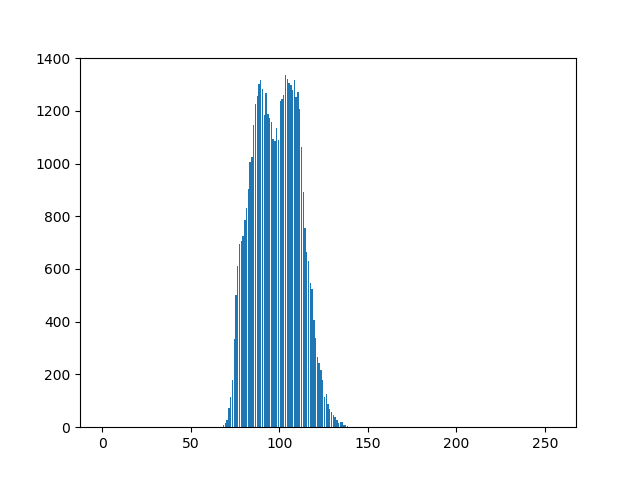
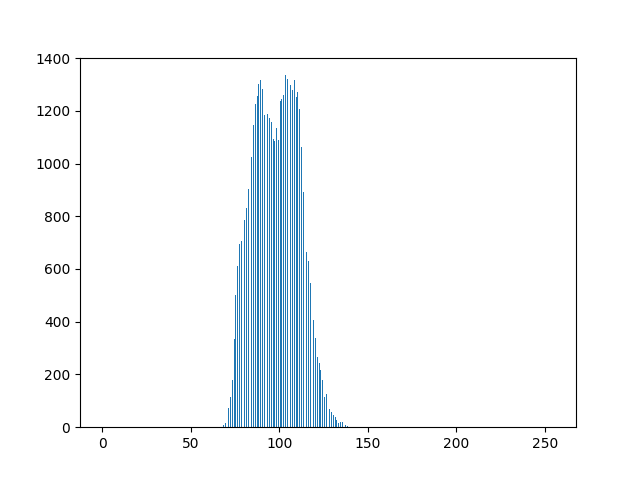
finished question 20

Changed region(s): [[0.375, 0.1875, 0.5312, 0.9062]]

diff --git a/Image_Processing_100_Questions/Question_11_20/Q15_sobel_filter.py b/Image_Processing_100_Questions/Question_11_20/Q15_sobel_filter.py
@@ -1,0 +1,54 @@
+import cv2
+import numpy as np
+
+
+def BGR2GRAY(img):
+    b = img[..., 0].copy()
+    g = img[..., 1].copy()
+    r = img[..., 2].copy()
+
+    gray = 0.2126 * r + 0.7152 * g + 0.0722 * b
+    gray = gray.astype(np.uint8)
+
+    return gray
+
+
+def sobel_filter(src, kernel_size=3):
+    if len(src.shape) == 3:
+        height, width, channels = src.shape
+    else:
+        height, width = src.shape
+
+    kernel_h = [[1, 0, -1], [2, 0, -2], [1, 0, -1]]
+    kernel_v = [[1, 2, 1], [0, 0, 0], [-1, -2, -1]]
+
+    pad = kernel_size // 2
+    src_pad = np.zeros((height + pad * 2, width + pad * 2), np.uint8)
+    src_pad[pad: pad + height, pad: pad + width] = src.copy()
+
+    out_v = np.zeros_like(src, np.float32)
+    out_h = np.zeros_like(src, np.float32)
+
+    for i in range(height):
+        for j in range(width):
+            out_v[i, j] = np.sum(kernel_v * src_pad[i: i + kernel_size, j: j + kernel_size])
+            out_h[i, j] = np.sum(kernel_h * src_pad[i: i + kernel_size, j: j + kernel_size])
+
+    out_v = np.clip(out_v, 0, 255).astype(np.uint8)
+    out_h = np.clip(out_h, 0, 255).astype(np.uint8)
+
+    return out_v, out_h
+
+
+src = cv2.imread("imori.png")
+
+gray = BGR2GRAY(src)
+
+out_v, out_h = sobel_filter(gray, 3)
+
+cv2.imshow("result vertical", out_v)
+cv2.imshow("result horizon", out_h)
+cv2.imwrite("answer15_vertical.jpg", out_v)
+cv2.imwrite("answer15_horizon.jpg", out_h)
+cv2.waitKey(0)
+cv2.destroyAllWindows()

diff --git a/Image_Processing_100_Questions/Question_11_20/Q16_prewitt_filter.py b/Image_Processing_100_Questions/Question_11_20/Q16_prewitt_filter.py
@@ -1,0 +1,53 @@
+import cv2
+import numpy as np
+
+
+def BGR2GRAY(img):
+    b = img[..., 0]
+    g = img[..., 1]
+    r = img[..., 2]
+
+    gray = 0.2126 * r + 0.7152 * g +0.0722 * b
+    gray = gray.astype(np.uint8)
+
+    return gray
+
+
+def prewitt_filter(src, kernel_size = 3):
+    if len(src.shape) == 3:
+        height, width, channels = src.shape
+    else:
+        height, width = src.shape
+
+    pad = kernel_size // 2
+    src_pad = np.zeros((height + pad * 2, width + pad * 2), np.uint8)
+    src_pad[pad: height + pad, pad: width + pad] = src.copy()
+
+    kernel_v = [[-1, -1, -1], [0, 0, 0], [1, 1, 1]]
+    kernel_h = [[-1, 0, 1], [-1, 0, 1], [-1, 0, 1]]
+
+    out_v = np.zeros_like(src, np.float32)
+    out_h = np.zeros_like(src, np.float32)
+
+    for i in range(height):
+        for j in range(width):
+            out_v[i, j] = np.sum(kernel_v * src_pad[i: i + kernel_size, j: j + kernel_size])
+            out_h[i, j] = np.sum(kernel_h * src_pad[i: i + kernel_size, j: j + kernel_size])
+    out_v = np.clip(out_v, 0, 255).astype(np.uint8)
+    out_h = np.clip(out_h, 0, 255).astype(np.uint8)
+
+    return out_v, out_h
+
+
+src = cv2.imread("imori.png")
+
+gray = BGR2GRAY(src)
+
+out_v, out_h = prewitt_filter(gray, 3)
+
+cv2.imshow("result vertical", out_v)
+cv2.imwrite("answer16_vertical.jpg", out_v)
+cv2.imshow("result horizon", out_h)
+cv2.imwrite("answer16_horizon.jpg", out_h)
+cv2.waitKey(0)
+cv2.destroyAllWindows()

diff --git a/Image_Processing_100_Questions/Question_11_20/Q19_log_filter.py b/Image_Processing_100_Questions/Question_11_20/Q19_log_filter.py
@@ -1,0 +1,52 @@
+import cv2
+import numpy as np
+
+
+def BGR2GRAY(src):
+    b = src[..., 0].copy()
+    g = src[..., 1].copy()
+    r = src[..., 2].copy()
+
+    gray = r * 0.2126 + 0.7152 * g + 0.0722 * b
+    gray = gray.astype(np.uint8)
+
+    return gray
+
+
+def log_filter(src, kernel_size=5, sigma=3):
+    if len(src.shape) == 3:
+        height, width, channels = src.shape
+    else:
+        height, width = src.shape
+
+    pad = kernel_size // 2
+    src_pad = np.zeros((height + pad * 2, width + pad * 2), np.uint8)
+    src_pad[pad: pad + height, pad: pad + width] = src.copy()
+
+    kernel = np.zeros((kernel_size, kernel_size), np.float32)
+    for i in range(-pad, kernel_size - pad):
+        for j in range(-pad, kernel_size - pad):
+            kernel[i + pad, j + pad] = (i * i + j * j - sigma * sigma) * np.exp(-(i * i + j * j) / (2 * sigma * sigma))
+    kernel /= 2 * np.pi * (sigma ** 6)
+    kernel /= np.sum(kernel)
+
+    out = np.zeros_like(src, np.float32)
+
+    for i in range(height):
+        for j in range(width):
+            out[i, j] = np.sum(kernel * src_pad[i: i + kernel_size, j: j + kernel_size])
+    out = np.clip(out, 0, 255).astype(np.uint8)
+
+    return out
+
+
+src = cv2.imread("imori_noise.jpg")
+
+gray = BGR2GRAY(src)
+
+out = log_filter(gray, 5, 3)
+
+cv2.imshow("result", out)
+cv2.imwrite("answer19.jpg", out)
+cv2.waitKey(0)
+cv2.destroyAllWindows()

diff --git a/Image_Processing_100_Questions/Question_11_20/Q14_differential_filter.py b/Image_Processing_100_Questions/Question_11_20/Q14_differential_filter.py
@@ -1,0 +1,36 @@
+import cv2
+import numpy as np
+
+src = cv2.imread("imori.png")
+height, width, channels = src.shape
+
+b = src[..., 0]
+g = src[..., 1]
+r = src[..., 2]
+gray = 0.2126 * r + 0.7152 * g + 0.0722 * b
+gray = gray.astype(np.uint8)
+
+out_v = np.zeros_like(gray, np.uint8)
+out_h = np.zeros_like(gray, np.uint8)
+
+kernel_size = 3
+kernel_v = [[0, -1, 0], [0, 1, 0], [0, 0, 0]]
+kernel_h = [[0, 0, 0], [-1, 1, 0], [0, 0, 0]]
+
+pad = kernel_size // 2
+src_pad = np.zeros((height + pad * 2, width + pad * 2), np.float32)
+src_pad[pad: height + pad, pad: width + pad] = gray.copy()
+
+for i in range(height):
+    for j in range(width):
+        out_v[i, j] = np.sum(kernel_v * src_pad[i: i + kernel_size, j: j + kernel_size])
+        out_h[i, j] = np.sum(kernel_h * src_pad[i: i + kernel_size, j: j + kernel_size])
+out_v = np.clip(out_v, 0, 255)
+out_h = np.clip(out_h, 0, 255)
+
+cv2.imshow("result vertical", out_v)
+cv2.imshow("result horizon", out_h)
+cv2.imwrite("answer14_vertical.jpg", out_v)
+cv2.imwrite("answer14_horizon.jpg", out_h)
+cv2.waitKey(0)
+cv2.destroyAllWindows()

diff --git a/Image_Processing_100_Questions/Question_11_20/Q17_laplacian_filter.py b/Image_Processing_100_Questions/Question_11_20/Q17_laplacian_filter.py
@@ -1,0 +1,49 @@
+import cv2
+import numpy as np
+
+
+def BGR2GRAY(img):
+    b = img[..., 0]
+    g = img[..., 1]
+    r = img[..., 2]
+
+    gray = 0.2126 * r + 0.7152 * g + 0.0722 * b
+    gray = gray.astype(np.uint8)
+
+    return gray
+
+
+def laplacian_filter(img):
+    if len(img.shape) == 3:
+        height, width, channels = img.shape
+    else:
+        height, width = img.shape
+
+    kernel_size = 3
+    kernel = [[0, 1, 0], [1, -4, 1], [0, 1, 0]]
+
+    pad = kernel_size // 2
+    src_pad = np.zeros((height + pad * 2, width + pad * 2), np.uint8)
+    src_pad[pad: height + pad, pad: width + pad] = img.copy()
+
+    out = np.zeros_like(img, np.float32)
+
+    for i in range(height):
+        for j in range(width):
+            out[i, j] = np.sum(kernel * src_pad[i: i + kernel_size, j: j + kernel_size])
+
+    out = np.clip(out, 0, 255).astype(np.uint8)
+
+    return out
+
+
+src = cv2.imread("imori.png")
+
+gray = BGR2GRAY(src)
+
+out = laplacian_filter(gray)
+
+cv2.imshow("result", out)
+cv2.imwrite("answer17.jpg", out)
+cv2.waitKey(0)
+cv2.destroyAllWindows()

diff --git a/Image_Processing_100_Questions/Question_11_20/Q18_emboss_filter.py b/Image_Processing_100_Questions/Question_11_20/Q18_emboss_filter.py
@@ -1,0 +1,50 @@
+import cv2
+import numpy as np
+
+
+def BGR2GRAY(src):
+    b = src[..., 0]
+    g = src[..., 1]
+    r = src[..., 2]
+
+    gray = 0.2126 * r + 0.7152 * g + 0.0722 * b
+
+    gray = gray.astype(np.uint8)
+
+    return gray
+
+
+def emboss_filter(src):
+    if len(src.shape) == 3:
+        height, width, channels = src.shape
+    else:
+        height, width = src.shape
+
+    kernel_size = 3
+    kernel = [[-2, -1, 0], [-1, 1, 1], [0, 1, 2]]
+
+    pad = kernel_size // 2
+    src_pad = np.zeros((height + pad * 2, width + pad * 2), np.uint8)
+    src_pad[pad: pad + height, pad: pad + width] = src.copy()
+
+    out = np.zeros_like(src)
+
+    for i in range(height):
+        for j in range(width):
+            out[i, j] = np.sum(kernel * src_pad[i: i + kernel_size, j: j + kernel_size])
+
+    out = np.clip(out, 0, 255).astype(np.uint8)
+
+    return out
+
+
+src = cv2.imread("imori.png")
+
+gray = BGR2GRAY(src)
+
+out = emboss_filter(gray)
+
+cv2.imshow("result", out)
+cv2.imwrite("answer18.jpg", out)
+cv2.waitKey(0)
+cv2.destroyAllWindows()

diff --git a/Image_Processing_100_Questions/Question_11_20/Q20_histogram_display.py b/Image_Processing_100_Questions/Question_11_20/Q20_histogram_display.py
@@ -1,0 +1,9 @@
+import cv2
+import numpy as np
+import matplotlib.pyplot as plt
+
+src = cv2.imread("imori_dark.jpg").astype(np.float32)
+
+plt.hist(src.ravel(), bins=255, rwidth=0.5, range=(0, 255))
+plt.savefig("out.png")
+plt.show()
